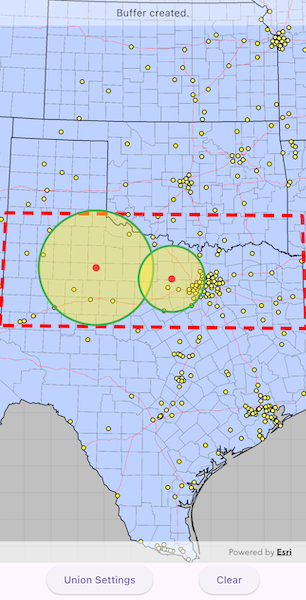
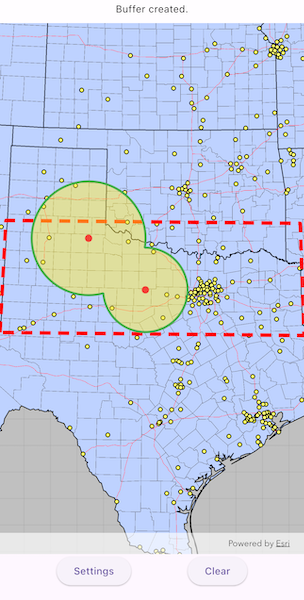
feat: Refactor UI to integrate settings panel directly into main widget tree
- Moved the banner to the top of the widget tree for better visibility.
- Integrated the settings panel directly into the main build method, removing the use of showModalBottomSheet.
- Added a _showSettings boolean to control the visibility of the settings panel.
- Updated the buildSettings method to use setState for updating UI elements.
- Adjusted the layout to ensure seamless integration of the settings panel with the main UI.
- Updated the screenshot in `README.md`.

diff --git a/lib/samples/create_buffers_around_points/create_buffers_around_points.dart b/lib/samples/create_buffers_around_points/create_buffers_around_points.dart
@@ -1,3 +1,19 @@
+//
+// Copyright 2024 Esri
+//
+// Licensed under the Apache License, Version 2.0 (the "License");
+// you may not use this file except in compliance with the License.
+// You may obtain a copy of the License at
+//
+//   https://www.apache.org/licenses/LICENSE-2.0
+//
+// Unless required by applicable law or agreed to in writing, software
+// distributed under the License is distributed on an "AS IS" BASIS,
+// WITHOUT WARRANTIES OR CONDITIONS OF ANY KIND, either express or implied.
+// See the License for the specific language governing permissions and
+// limitations under the License.
+//
+
 import 'dart:math';
 
 import 'package:arcgis_maps/arcgis_maps.dart';
@@ -35,6 +51,9 @@ class _CreateBuffersAroundPointsState extends State<CreateBuffersAroundPoints>
   // Union status.
   var _shouldUnion = false;
 
+  // A flag for when the settings bottom sheet is visible.
+  var _showSettings = false;
+
   // Define the graphics overlays.
   final bufferGraphicsOverlay = GraphicsOverlay();
   final tapPointGraphicsOverlay = GraphicsOverlay();
@@ -55,6 +74,25 @@ class _CreateBuffersAroundPointsState extends State<CreateBuffersAroundPoints>
           children: [
             Column(
               children: [
+                // Display a banner with instructions at the top.
+                SafeArea(
+                  child: IgnorePointer(
+                    child: Container(
+                      padding: const EdgeInsets.all(10),
+                      color: Colors.white.withOpacity(0.7),
+                      child: Row(
+                        mainAxisAlignment: MainAxisAlignment.center,
+                        children: [
+                          Text(
+                            _status.label,
+                            textAlign: TextAlign.center,
+                            style: const TextStyle(color: Colors.black),
+                          ),
+                        ],
+                      ),
+                    ),
+                  ),
+                ),
                 Expanded(
                   // Add a map view to the widget tree and set a controller.
                   child: ArcGISMapView(
@@ -68,21 +106,10 @@ class _CreateBuffersAroundPointsState extends State<CreateBuffersAroundPoints>
                   children: [
                     ElevatedButton(
                       onPressed: () {
-                        showModalBottomSheet(
-                          context: context,
-                          builder: (BuildContext context) {
-                            return StatefulBuilder(
-                              builder:
-                                  (BuildContext context, StateSetter setState) {
-                                return buildSettings(context, setState);
-                              },
-                            );
-                          },
-                        );
+                        setState(() => _showSettings = !_showSettings);
                       },
                       child: const Text('Settings'),
                     ),
-
                     // A button to clear the buffers.
                     ElevatedButton(
                       onPressed: _bufferPoints.isEmpty
@@ -95,6 +122,8 @@ class _CreateBuffersAroundPointsState extends State<CreateBuffersAroundPoints>
                     ),
                   ],
                 ),
+                // Conditionally display the settings.
+                if (_showSettings) buildSettings(context, setState),
               ],
             ),
             // Display a progress indicator and prevent interaction until state is ready.
@@ -104,19 +133,6 @@ class _CreateBuffersAroundPointsState extends State<CreateBuffersAroundPoints>
                 child: ColoredBox(
                   color: Colors.white30,
                   child: Center(child: CircularProgressIndicator()),
-                ),
-              ),
-            ),
-            Positioned(
-              top: 0,
-              left: 0,
-              right: 0,
-              child: Container(
-                padding: const EdgeInsets.all(8),
-                color: Colors.white.withOpacity(0.4),
-                child: Text(
-                  _status.label,
-                  textAlign: TextAlign.center,
                 ),
               ),
             ),
@@ -143,7 +159,7 @@ class _CreateBuffersAroundPointsState extends State<CreateBuffersAroundPoints>
       ..size = 10;
   }
 
-  // The build method for the Setting bottom sheet.
+  // The build method for the settings.
   Widget buildSettings(BuildContext context, StateSetter setState) {
     return Container(
       padding: EdgeInsets.fromLTRB(
@@ -168,7 +184,7 @@ class _CreateBuffersAroundPointsState extends State<CreateBuffersAroundPoints>
               const Spacer(),
               IconButton(
                 onPressed: () {
-                  Navigator.pop(context); // Close the bottom sheet
+                  setState(() => _showSettings = false);
                 },
                 icon: const Icon(Icons.close),
               ),
@@ -204,12 +220,10 @@ class _CreateBuffersAroundPointsState extends State<CreateBuffersAroundPoints>
               Switch(
                 value: _shouldUnion,
                 onChanged: (value) {
-                  setState(() {
-                    _shouldUnion = value;
-                    if (_bufferPoints.isNotEmpty) {
-                      drawBuffers(unionized: _shouldUnion);
-                    }
-                  });
+                  setState(() => _shouldUnion = value);
+                  if (_bufferPoints.isNotEmpty) {
+                    drawBuffers(unionized: _shouldUnion);
+                  }
                 },
               ),
             ],

diff --git a/lib/samples/create_buffers_around_points/README.md b/lib/samples/create_buffers_around_points/README.md
@@ -10,7 +10,7 @@ Creating buffers is a core concept in GIS proximity analysis that allows you to 
 
 ## How to use the sample
 
-Tap on the map to add points. Tap the "Union Settings" button to adjust the buffer radius and union settings. The buffer radius can be adjusted using the slider, and the union option can be toggled using the switch. Click the "Clear" button to start over. The red dashed envelope shows the area where you can expect reasonable results for planar buffer operations with the North Central Texas State Plane spatial reference.
+Tap on the map to add points. Tap the "Settings" button to adjust the buffer radius and union settings. The buffer radius can be adjusted using the slider, and the union option can be toggled using the switch. Click the "Clear" button to start over. The red dashed envelope shows the area where you can expect reasonable results for planar buffer operations with the North Central Texas State Plane spatial reference.
 
 ## How it works
 
